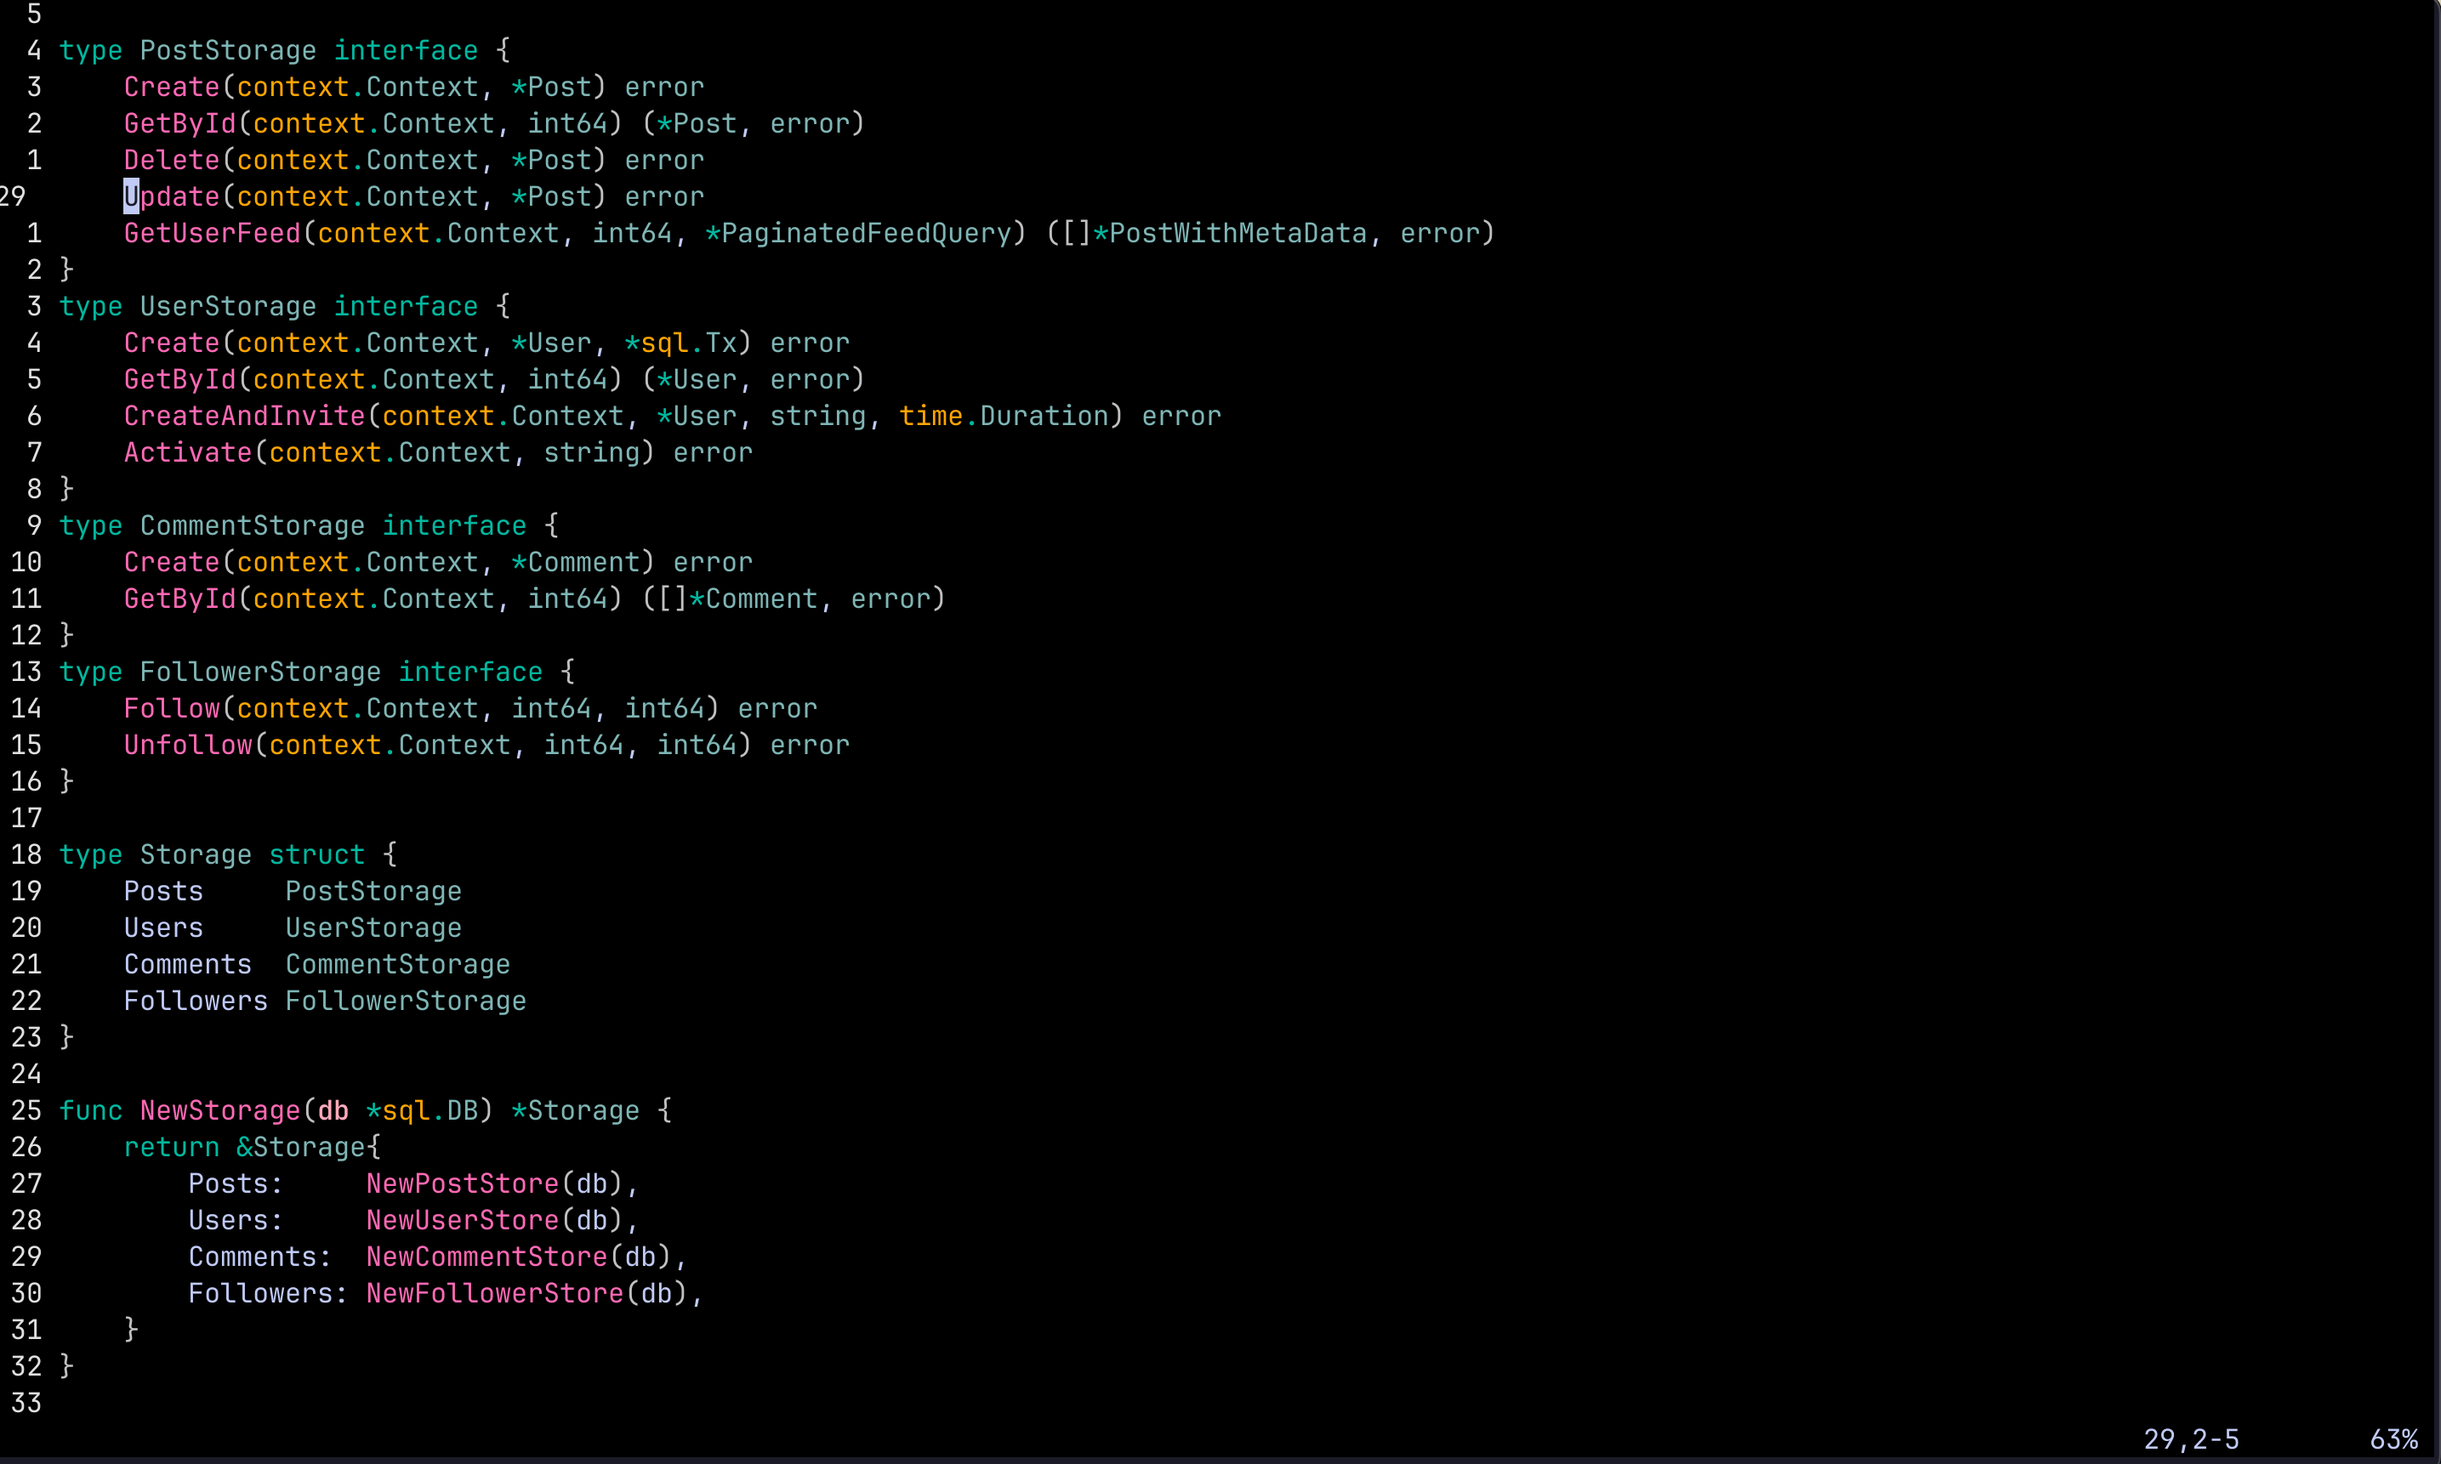
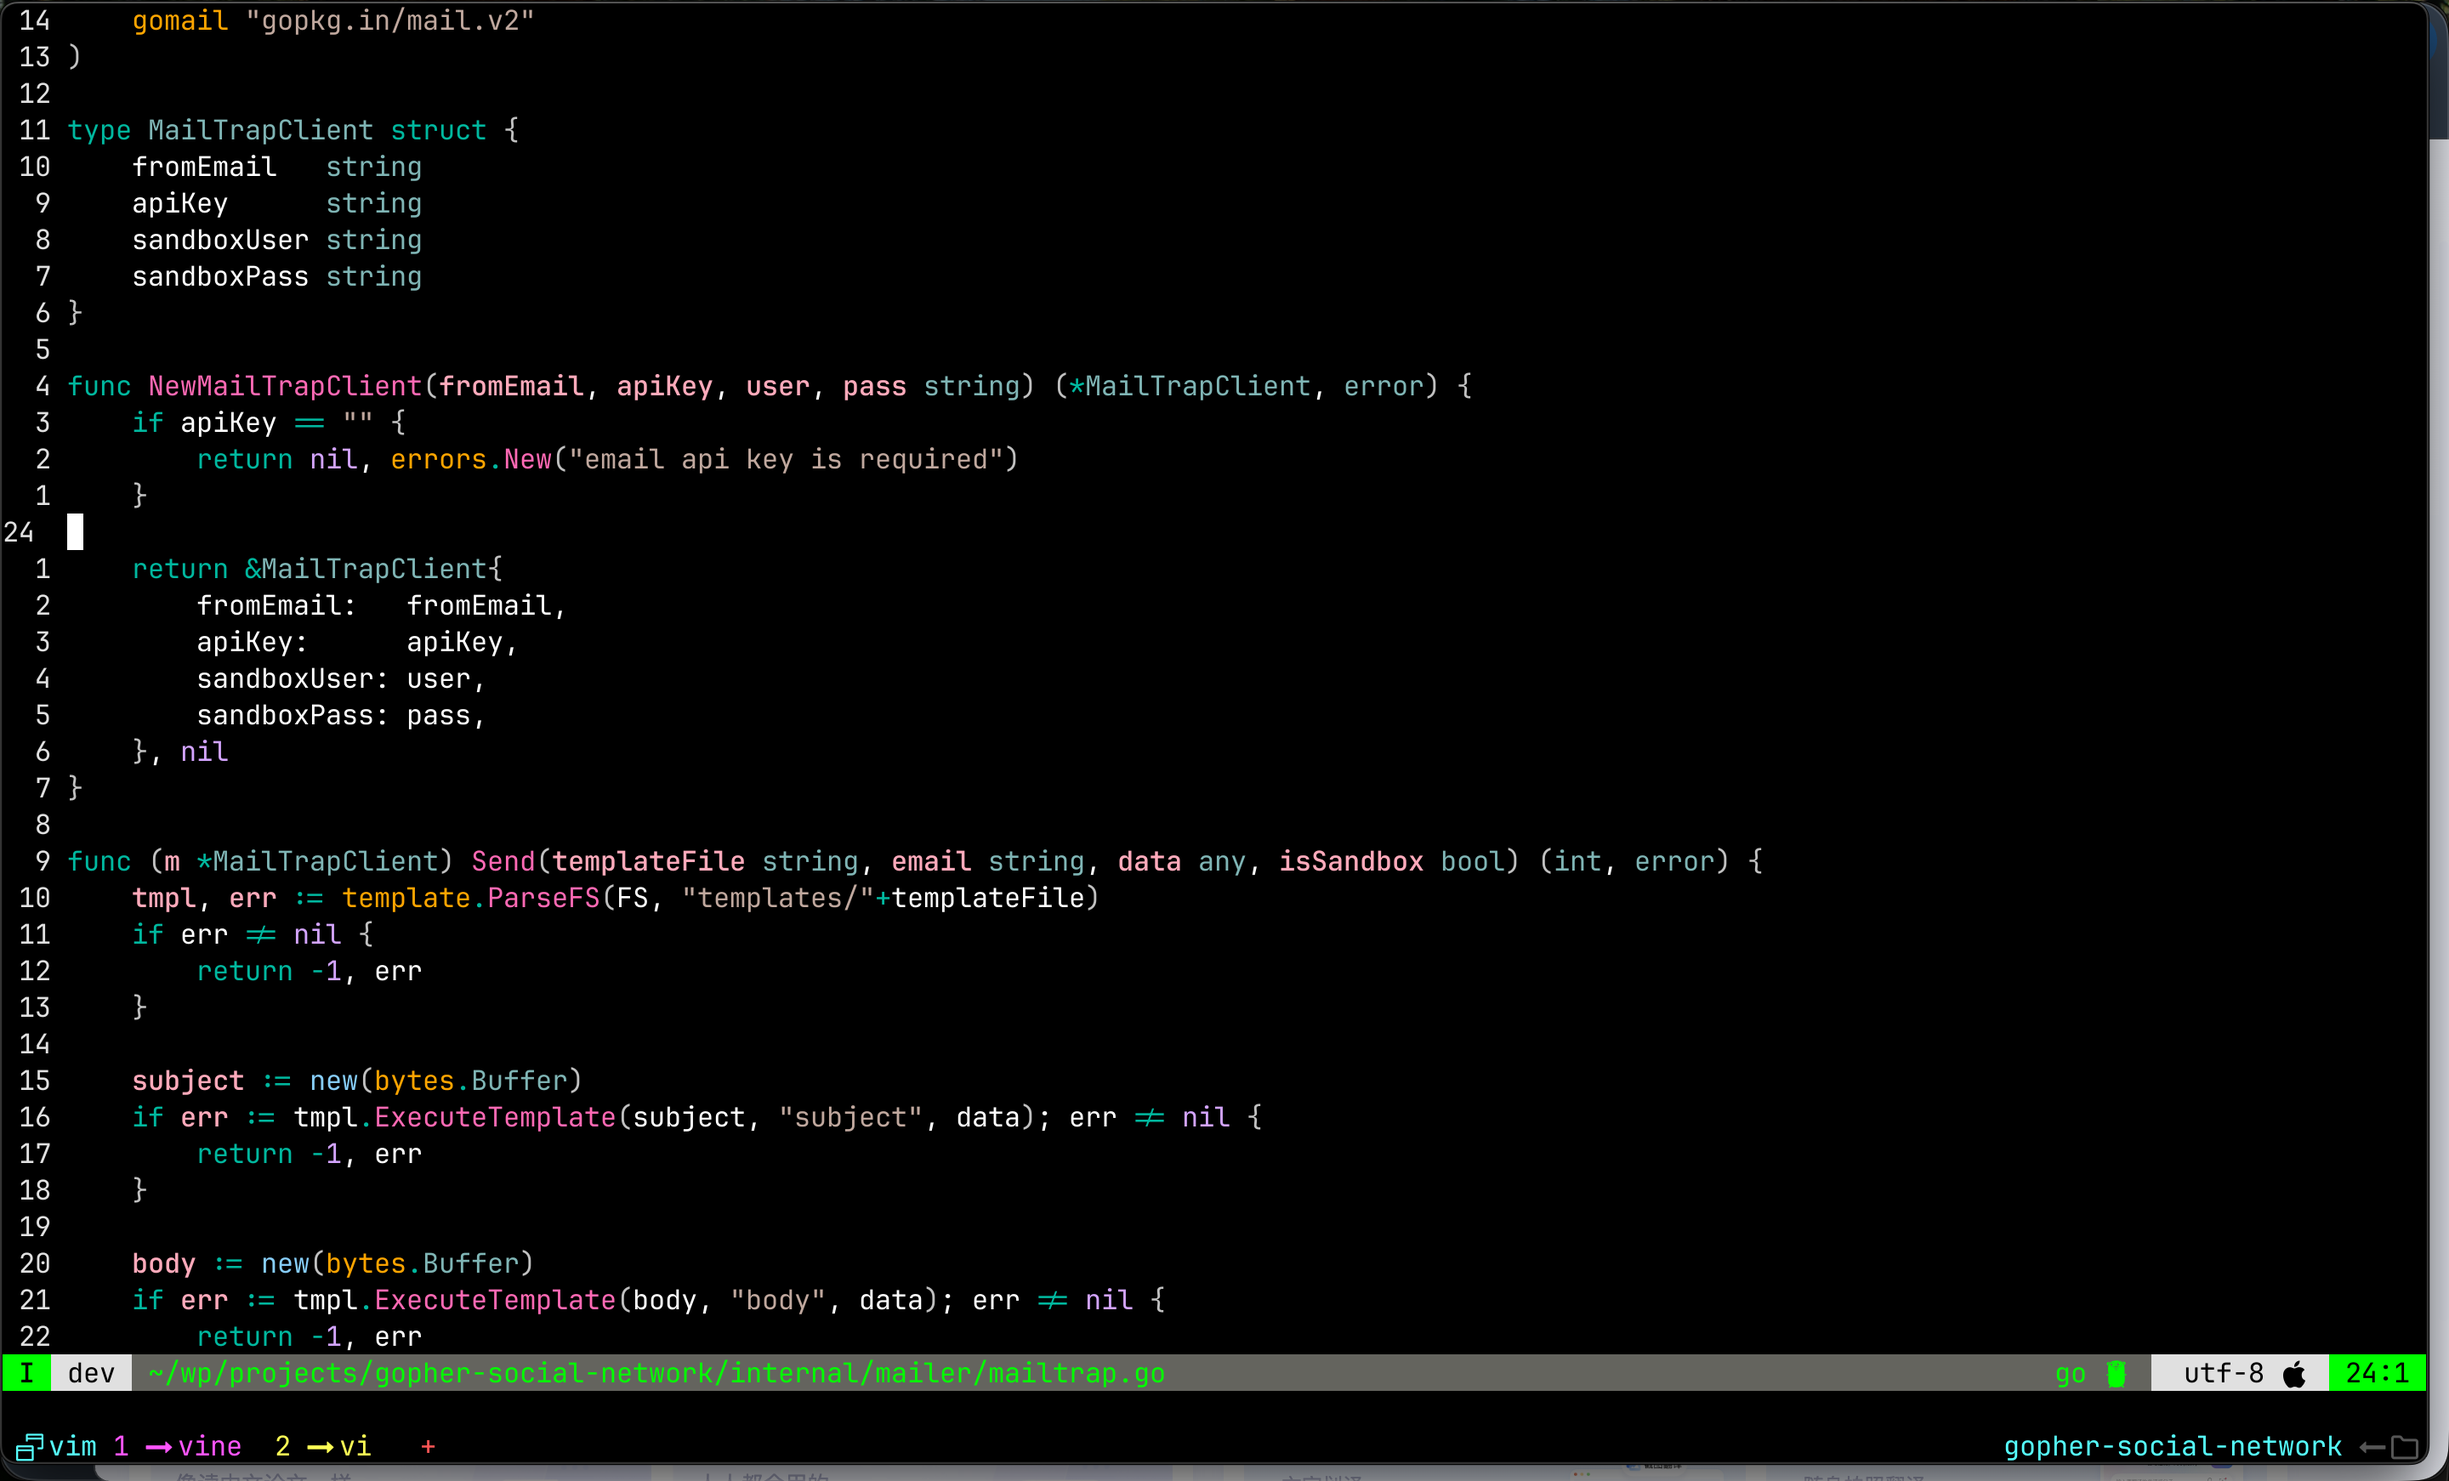
docs(README): update README and screenshot
Add install instructions, usage examples and palette table;
refresh the screenshot.

diff --git a/README.md b/README.md
@@ -1,2 +1,81 @@
 # Vine
-![theme](./screenshots/vine.png)
+
+A dark Vim color scheme built around muted greens and soft pinks, with just
+enough contrast to stay readable through a long day in the terminal.
+
+![Vine](./screenshots/vine.png)
+
+## Requirements
+
+- Vim 8.0+ (or Neovim 0.5+)
+
+## Installation
+
+<details open>
+<summary>vim-plug</summary>
+
+```vim
+Plug 'loeia/vine'
+```
+
+</details>
+
+<details>
+<summary>lazy.nvim</summary>
+
+```lua
+{ 'loeia/vine', priority = 1000 }
+```
+
+</details>
+
+<details>
+<summary>Vim packages (built-in)</summary>
+
+```sh
+git clone https://github.com/loeia/vine.git \
+  ~/.vim/pack/themes/start/vine
+```
+
+</details>
+
+<details>
+<summary>Manual</summary>
+
+Copy `colors/vine.vim` into `~/.vim/colors/` (or `~/.config/nvim/colors/`).
+
+</details>
+
+## Usage
+
+```vim
+set termguicolors
+colorscheme vine
+```
+
+`vim-plug` and `lazy.nvim` users may want this in their config:
+
+```vim
+" vim-plug
+colorscheme vine
+```
+
+```lua
+-- lazy.nvim
+vim.cmd.colorscheme('vine')
+```
+
+## Palette
+
+| Role       | Hex       |
+| ---------- | --------- |
+| Background | `#000000` |
+| Foreground | `#e0e0e0` |
+| Type       | `#7fb5b5` |
+| String     | `#c0a89e` |
+| Comment    | `#727272` |
+| Constant   | `#d3a4ff` |
+| Statement  | `#00b89f` |
+| Function   | `#ff69b4` |
+| PreProc    | `#9cbbe2` |
+| Identifier | `#ffaabb` |
